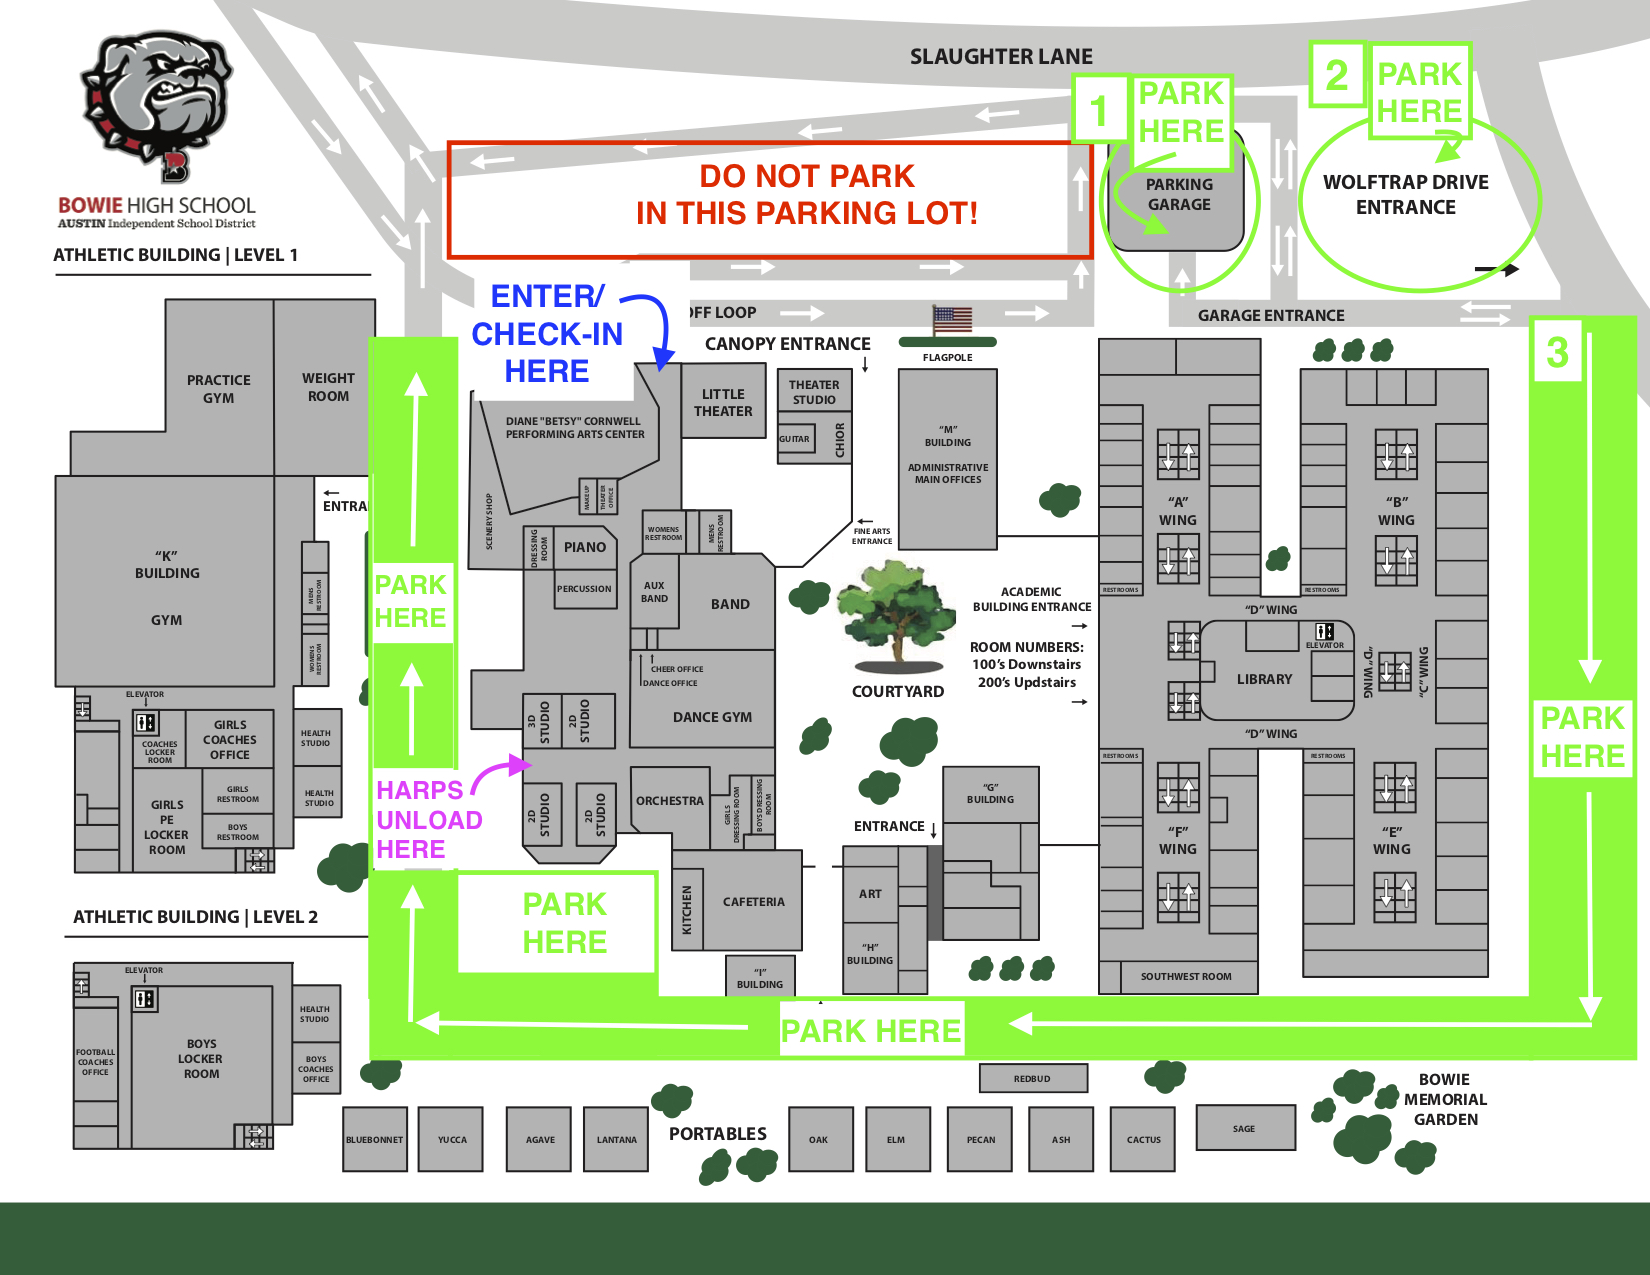
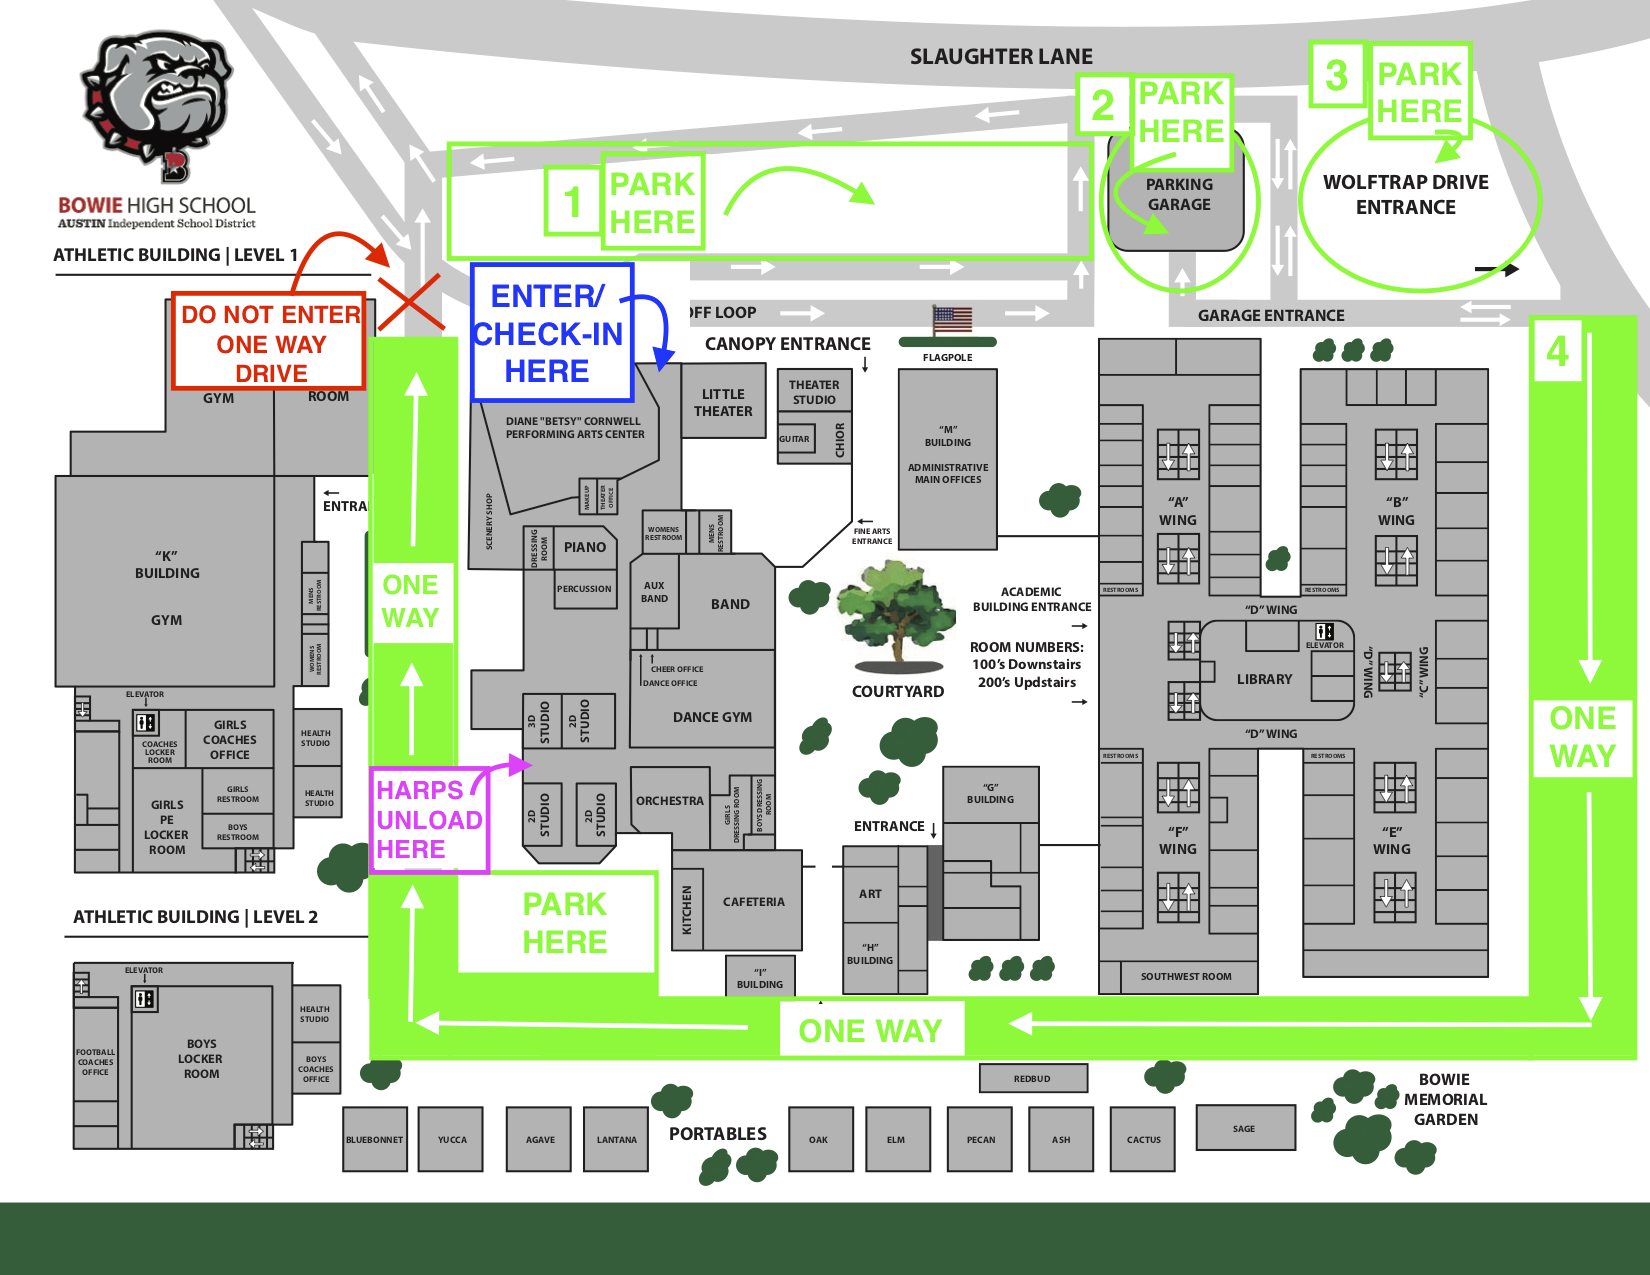
[#031] update parking info

diff --git a/parking.html b/parking.html
@@ -37,15 +37,16 @@
         <div class="content-text">
             <h2>Please refer to the map below to find information on parking, check-in, and contest arrival details.</h2>
             <br>
-            <p>Please <span style="font-weight:bolder;color:limegreen;text-decoration: underline;">PARK ONLY IN MARKED AREAS</span> around Bowie High School on the map below, park in DESIGNATED PARKING SPOTS OR YOU RISK BEING TOWED:</p>
+            <p>Please <span style="font-weight:bolder;color:limegreen;text-decoration: underline;">PARK ONLY IN MARKED AREAS</span> around Bowie High School on the map below; do not park in fire lanes or in front of fire hydrants; park in <span style="font-weight:bolder">DESIGNATED PARKING SPOTS</span> OR YOU RISK BEING TOWED:</p>
             <div style="font-weight:bold">
                 <br>
+                <p>PARK IN THE MAIN FRONT PARKING LOT; IF UNAVAILABLE…</p>
                 <p>PARK IN THE PARKING GARAGE; IF UNAVAILABLE…</p>
                 <p>PARK IN THE LOT NEXT TO THE PARKING GARAGE; IF UNAVAILABLE…</p>
                 <p>PARK ANYWHERE IN A DESIGNATED SPOT ON THE DRIVE AROUND THE CAMPUS</p>
                 <br>
             </div>
-            <p>Please <span style="font-weight:bolder;color:red;text-decoration: underline;">DO NOT PARK</span> in the main front parking lot of Bowie - YOU WILL BE TOWED</p>
+            <p>Please observe that the drive around the school is <span style="font-weight:bolder;color:red;text-decoration: underline;">ONE WAY</span></p>
             <p>Please <span style="font-weight:bolder;color:blue;text-decoration: underline;">CHECK-IN / ENTER</span> the building through the main theater lobby entrance</p>
             <p>Harps will unload/enter in a different location - <span style="font-weight:bolder;color:purple;text-decoration: underline;">PLEASE SEE MARKED LOCATION ON MAP</span></p>
         </div>
